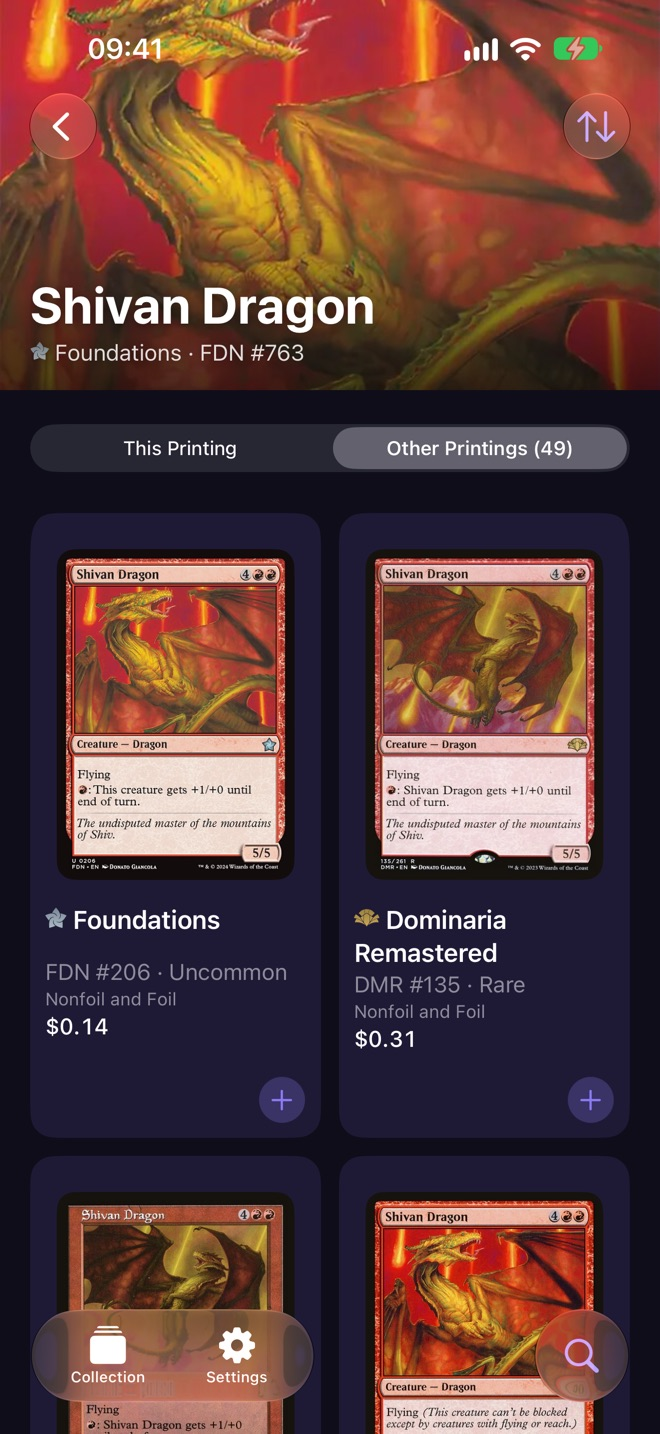
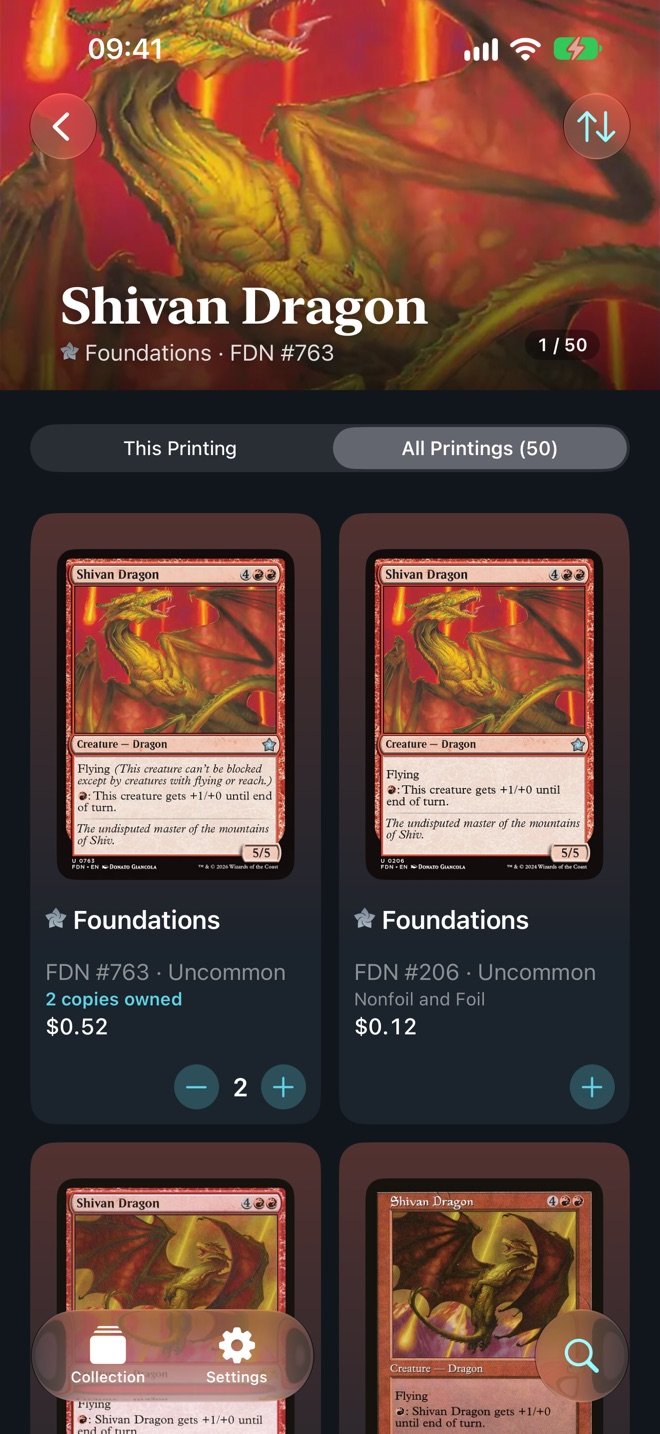
Update the app screenshots to the current design
The five iPhone screens from the App Store set: collection, search, card with the printing
carousel and finish counters, all printings, binder. Alt texts follow the new card screen.

diff --git a/index.html b/index.html
@@ -236,11 +236,11 @@ footer p { max-width: 70em; }
           <figcaption><b>Search the whole catalog</b>On the device, typos and all.</figcaption>
         </figure>
         <figure class="shot">
-          <div class="device"><img src="assets/screens/card.jpg" width="660" height="1434" loading="lazy" alt="Shivan Dragon's card screen: its art, rules text, price and the controls to add copies."></div>
+          <div class="device"><img src="assets/screens/card.jpg" width="660" height="1434" loading="lazy" alt="Shivan Dragon's card screen: its art, rules text, a carousel of its printings, and a counter for each finish to add copies."></div>
           <figcaption><b>Every card</b>Its text, price and your copies.</figcaption>
         </figure>
         <figure class="shot">
-          <div class="device"><img src="assets/screens/printings.jpg" width="660" height="1434" loading="lazy" alt="Shivan Dragon's 49 other printings, each with its set, rarity and price."></div>
+          <div class="device"><img src="assets/screens/printings.jpg" width="660" height="1434" loading="lazy" alt="All 50 printings of Shivan Dragon, each with its set, rarity and price."></div>
           <figcaption><b>Every printing</b>Pick the exact version you own.</figcaption>
         </figure>
         <figure class="shot">
